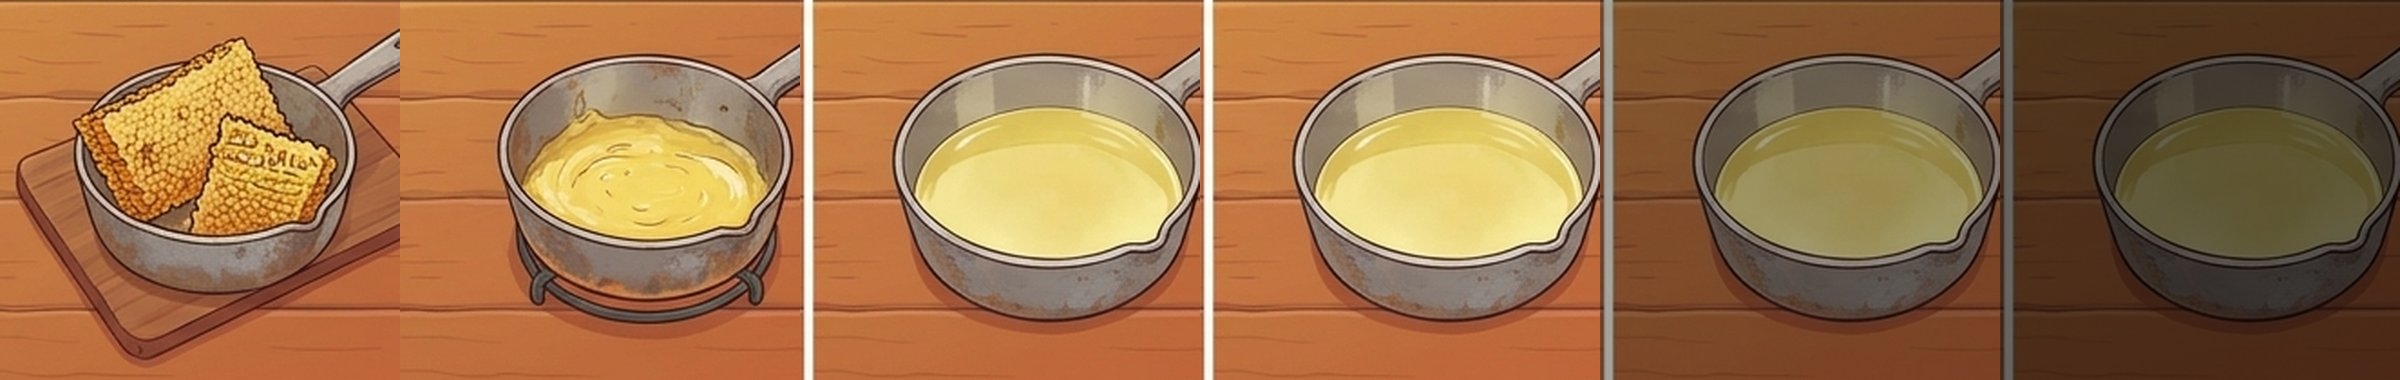
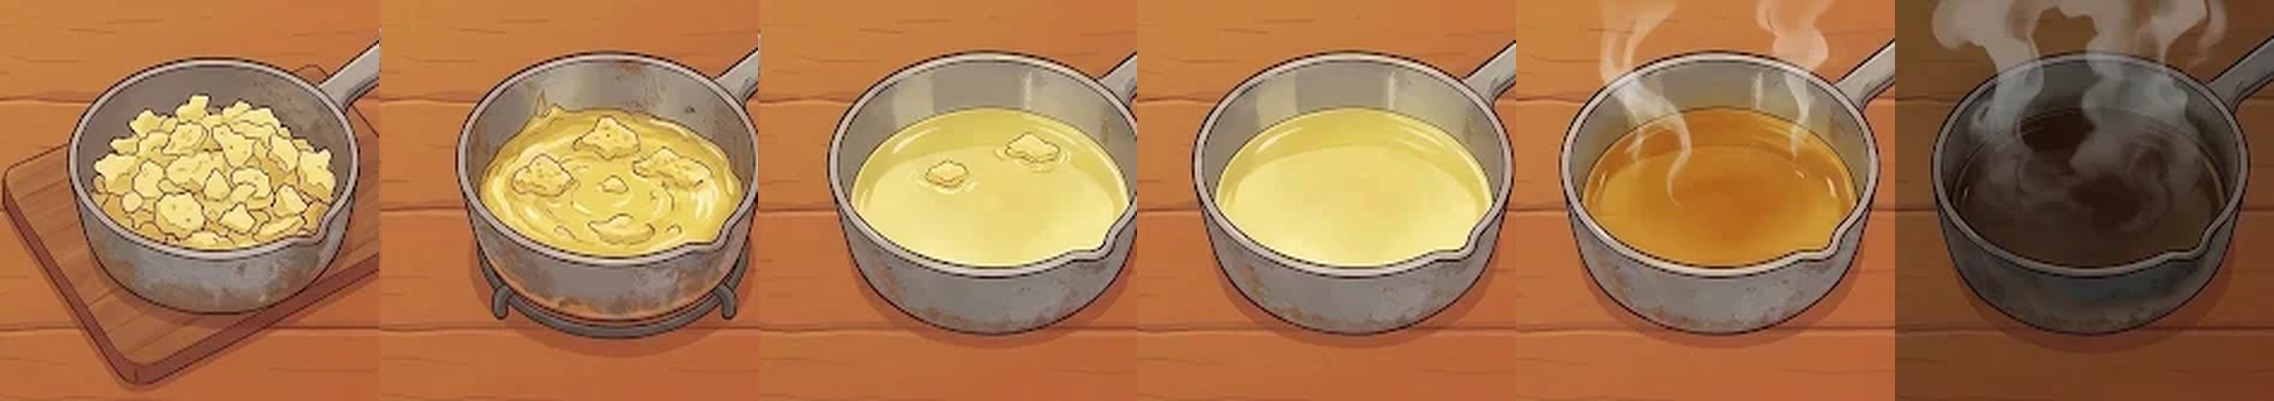
Cire : nouvelle planche de fonte
Claude-Session: https://claude.ai/code/session_014bi368SbjZ4sCSmbjCzFcj

diff --git a/game.js b/game.js
@@ -7849,7 +7849,7 @@ const CK_EASY = { xmiel: [0], xhuile: [0, 1, 2, 3], gmangue: [0, 2, 4, 5, 6, 7, 
 const cookSteps = r => { const l = lvP(), k = Object.keys(RECIPES).find(i => RECIPES[i] === r); return l.easy && CK_EASY[k] ? CK_EASY[k].map(i => r.steps[i]) : r.steps; };
 const lvP = () => { const l = CKLV[(mini.cklv == null ? 0 : mini.cklv)]; return mini.ckdef ? Object.assign({}, l, { tm: Math.max(-4, l.tm - 5), sp: l.sp * 1.35, zw: l.zw * .8, spd: l.spd + .03, up: l.up * .9, fl: Math.max(0, l.fl - .15), defi: 1 }) : l; };   // défi : chrono plus court et jauges plus rapides
 const CK = { el: null, r: null, step: 0, scores: [], raf: 0 };
-const CK_IMG = f => 'assets/cook/' + f + '.jpg' + (f === 'add_s' || f === 'crab_s' || f === 'peel_s' || f === 'mx_press' ? '?v=7' : '');
+const CK_IMG = f => 'assets/cook/' + f + '.jpg' + (f === 'add_s' || f === 'crab_s' || f === 'peel_s' || f === 'mx_press' || f === 'mx_melt' ? '?v=7' : '');
 /* ----- plats : qualité (étoiles) + demandes secondaires des habitants ----- */
 const DISHES = ['gmangue', 'gbanane'];
 const DNAME = { gmangue: 'du Maïmaïa', gbanane: 'du Maïbuï', tipaiki: 'du Tipa Iki', soupe: 'de l\'Uja-Jiji', gmiel: 'du Gâteau doré au miel', barra: 'du Barra-Grill', papi: 'de la Papillote des récifs' };
@@ -7949,7 +7949,7 @@ const RECIPES = {
   xmiel: { kob: 'miel', name: 'Miel', emoji: '🍯', need: {}, ok: 'd_miel', ko: 'd_miel',
     steps: [['Écrase le rayon, puis filtre : la cire reste dans la passoire', '', 'reveal', { strip: 'mx_press', n: 3, ar: '588/592', t: 12, fx: 'peel' }]] },
   xcire: { kob: 'cire', name: 'Cire d\'abeille', emoji: '🕯', need: {}, ok: 'd_cire', ko: 'd_cire',
-    steps: [['Fais fondre la cire doucement', '', 'oven', { strip: 'mx_melt', n: 6, ar: '400/380', t: 8, fx: ['steam'] }],
+    steps: [['Fais fondre la cire doucement', '', 'oven', { strip: 'mx_melt', n: 6, ar: '379/401', t: 8, fx: ['steam'] }],
       ['Verse la cire dans le moule', '', 'reveal', { strip: 'mx_mold', n: 3, ar: '520/420', t: 10, fx: 'peel' }]] },
   xhuile: { kob: 'huile', name: 'Huile de cacahuète', emoji: '🥜', need: { arachide: 2 }, ok: 'd_hx', ko: 'd_hx',
     steps: [['Tape pour casser les coques des cacahuètes', '', 'tap', { strip: 'hx_shell', frames: 2, n: 12, ar: '520/420', t: 8, fx: 'peel' }],

diff --git a/index.html b/index.html
@@ -1154,7 +1154,7 @@
 <script src="mymask.js?v=4"></script>
 <script src="sprites.js?v=200"></script>
 <script src="art.js"></script>
-<script src="game.js?v=247"></script>
+<script src="game.js?v=248"></script>
 </body>
 </html>
 
